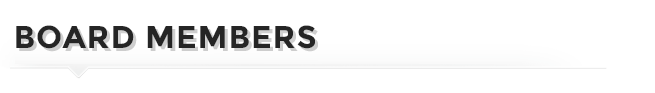
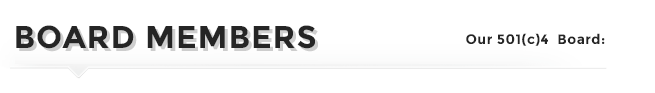
headers for board members

Changed region(s): [[0.7023, 0.3656, 0.9466, 0.4946]]

diff --git a/public/aboutus/index.html b/public/aboutus/index.html
@@ -210,7 +210,7 @@
 		
 		<div class="teamdevider"></div>
 		
-		<div class="teammember">
+		<img src="/aboutus/board2.png" style="float:left">
 			
 		<img src="/aboutus/teampic/zephyr.png" class="aboutpic">
 		<h3>Zephyr Teachout</h3> <h4>Director</h4>
